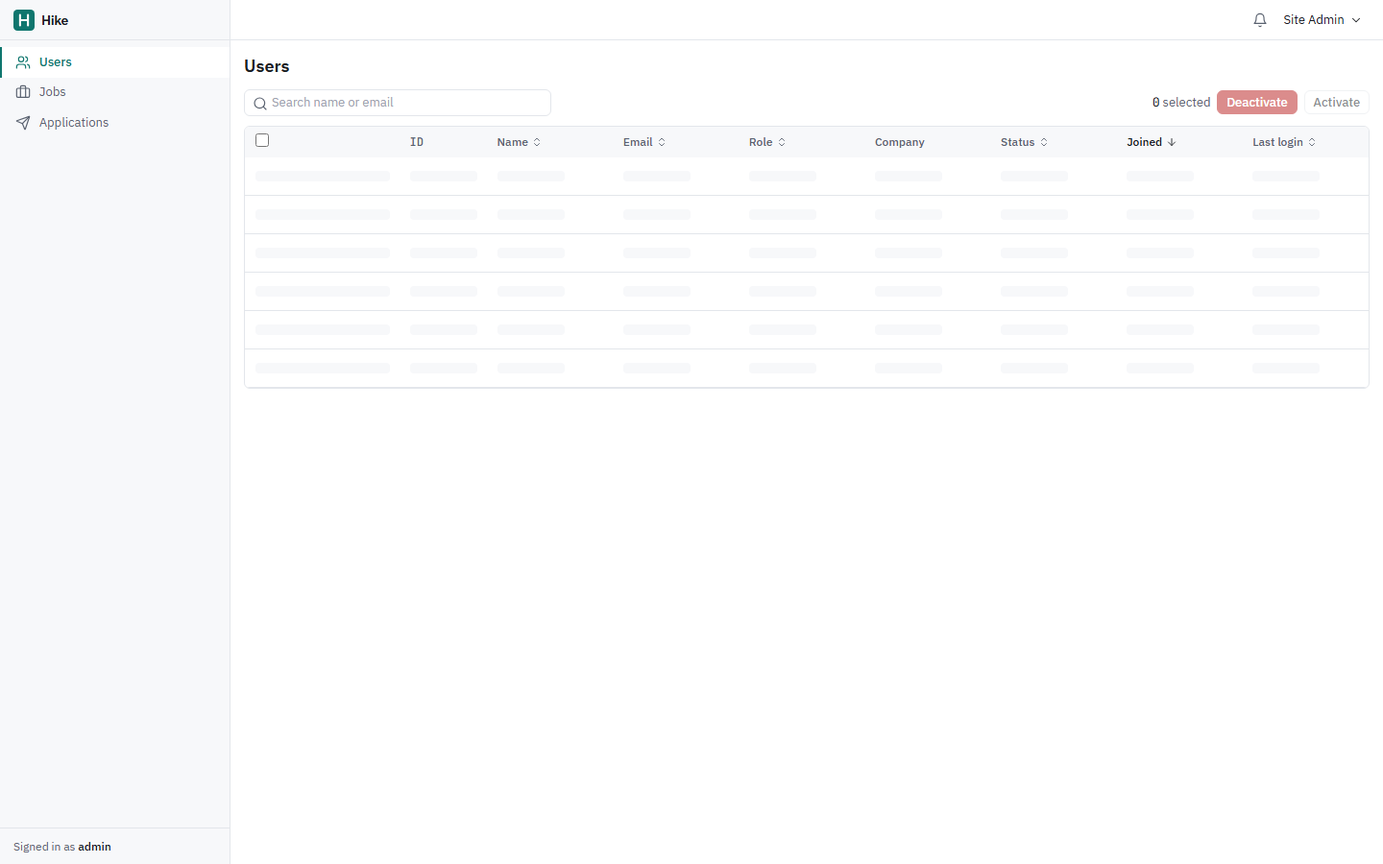
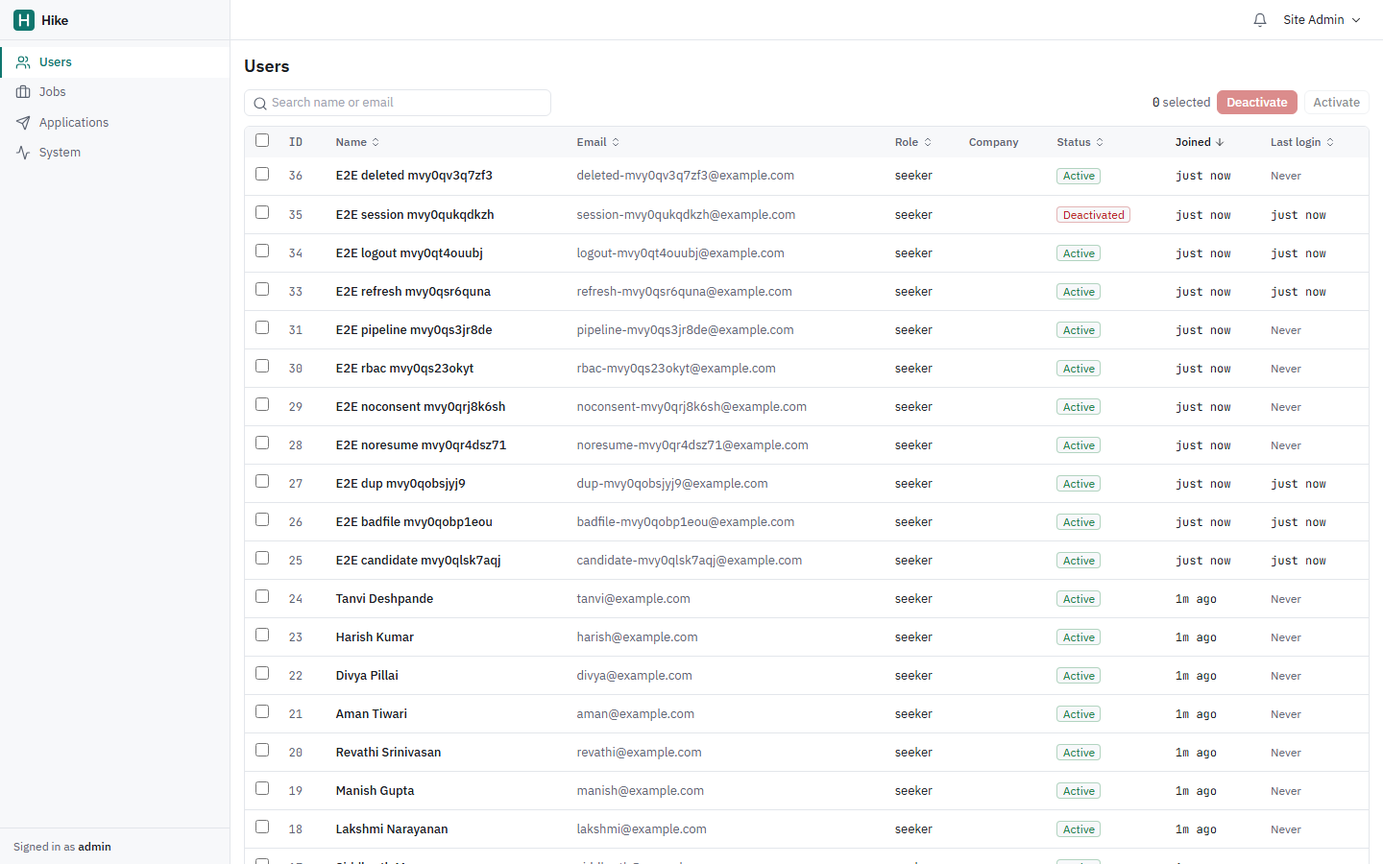
docs: README sections for background jobs, privacy and security, observability and the holdout evaluation; Render free-plan settings, retention on start, refreshed screenshots

diff --git a/backend/app/services/retention.py b/backend/app/services/retention.py
@@ -81,3 +81,12 @@ def run_retention(db: Session, now: datetime | None = None) -> dict:
 
     log.info("retention sweep finished", extra=out)
     return out
+
+
+if __name__ == "__main__":  # pragma: no cover - used by scripts/start.sh without a worker
+    from app.core.observability import configure_logging
+    from app.db.session import SessionLocal
+
+    configure_logging()
+    with SessionLocal() as session:
+        print(run_retention(session))

diff --git a/README.md b/README.md
@@ -2,7 +2,7 @@
 
 A job portal and recruitment platform. Job seekers search and filter jobs, upload a resume that is parsed into skills and experience, and see a match score for every job with the reasons behind it. Recruiters post jobs, see candidates ranked by match score, and move them through a hiring pipeline on a drag-and-drop board. Admins manage users and jobs.
 
-Built with FastAPI, PostgreSQL (full-text search + pgvector), Redis, sentence-transformers / ONNX Runtime, scikit-learn, React 18 and TypeScript.
+Built with FastAPI, PostgreSQL (full-text search + pgvector), Redis, Celery, sentence-transformers / ONNX Runtime, scikit-learn, React 18 and TypeScript. Resumes are uploaded only with consent, screened for malware, parsed in a sandboxed process, encrypted at rest and deletable at any time. The service exports Prometheus metrics and structured logs.
 
 ![Seeker dashboard](docs/screenshots/seeker-dashboard.png)
 
@@ -17,6 +17,9 @@ Built with FastAPI, PostgreSQL (full-text search + pgvector), Redis, sentence-tr
 - [Architecture](#architecture)
 - [Matching algorithm](#matching-algorithm)
 - [Search ranking](#search-ranking)
+- [Background jobs](#background-jobs)
+- [Resume privacy and security](#resume-privacy-and-security)
+- [Observability](#observability)
 - [Evaluation](#evaluation)
 - [Run locally](#run-locally)
 - [Demo accounts](#demo-accounts)
@@ -28,23 +31,27 @@ Built with FastAPI, PostgreSQL (full-text search + pgvector), Redis, sentence-tr
 
 **Job seekers**
 - Search with PostgreSQL full-text search (title, company, skills, description), title/skill autocomplete from an in-memory Trie, filters (location, role, experience, remote) and sorting (relevance, newest, salary, match %). 20 results per page; filters live in the URL.
-- Resume upload (PDF or DOCX, max 5 MB) with extension, MIME and magic-byte checks. Text extraction with pdfplumber / python-docx; skills, years of experience, education, email and phone are parsed. The seeker reviews and edits the parsed skills before saving.
+- Resume upload (PDF or DOCX, max 5 MB) after an explicit consent checkbox. Extension, MIME and magic-byte checks and a malware screen run at upload; text extraction (pdfplumber / python-docx) runs in a background task inside a resource-limited subprocess. Skills, years of experience, education, email and phone are parsed, and the seeker reviews and corrects them before saving.
+- Delete any resume, or the whole account, permanently (files, extracted text, embeddings, cached scores).
 - Match score (0-100) on every job, with a text breakdown: skills matched (e.g. 7/9) plus the missing skills, experience fit and location fit.
 - Apply with an optional note; track status and a timeline of every change; save jobs; in-app notifications.
 
 **Recruiters**
 - Post, edit, close and reopen jobs (markdown descriptions).
 - Kanban pipeline per job: Applied / Shortlisted / Interview / Offer / Rejected, built with dnd-kit. Usable with keyboard (Space to pick up, arrows to move) and through each card's menu. Invalid moves (e.g. Applied to Offer) are blocked on the client and the server.
-- Ranked list of candidates by match score with a skill-gap column; resume download; "Applications this week" line chart.
+- Ranked list of candidates by match score with a skill-gap column; resumes open through short-lived signed links; "Applications this week" line chart. The score is decision support: nothing is rejected automatically.
 
 **Admins**
 - Users, jobs and applications tables with search, column sorting, pagination, checkbox bulk actions (deactivate/activate users, close jobs) and a confirmation dialog.
+- System page: Postgres/Redis/worker/ClamAV health, queue depth, background task counts, recent failures, security and retention settings, and a "run retention now" button.
 
 **Platform**
 - JWT access tokens (15 min, in memory only) and rotating refresh tokens (7 days, httpOnly cookie, stored hashed; reuse of a rotated token revokes the whole token family).
 - Role guards return 401 for unknown callers and 403 for authenticated users without permission.
 - Login rate limit in Redis: 5 failed attempts per email + IP per 15 minutes.
 - Search results cached in Redis for 60 s; one version counter invalidates every cached search when any job changes.
+- Celery worker for resume parsing, embeddings, bulk re-scoring, email delivery and the retention sweep, with retries and a status row per task.
+- JSON logs with request IDs, Prometheus `/metrics`, optional Sentry, alert rules and a Grafana dashboard.
 
 ## Screenshots
 
@@ -74,13 +81,21 @@ flowchart LR
 
     subgraph API["FastAPI (Python 3.11)"]
         Routers["Routers: auth, jobs, resumes,<br/>applications, recruiter, admin, stats"]
-        Services["Services: search, ranking, Trie,<br/>parser, matching, pipeline"]
+        Services["Services: search, ranking, Trie,<br/>matching, pipeline, privacy"]
         ML["ML: MiniLM embeddings (ONNX),<br/>TF-IDF, LogReg classifier, eval"]
+        Obs["Request IDs, JSON logs,<br/>/metrics"]
+    end
+
+    subgraph Worker["Celery worker + beat"]
+        Tasks["parse resume, embed, re-score,<br/>email, retention sweep"]
+        Sandbox["Sandboxed parser<br/>subprocess, rlimits"]
     end
 
     PG[("PostgreSQL 16<br/>tsvector + GIN, pgvector")]
-    Redis[("Redis 7<br/>rate limit, search cache")]
-    Store[("File storage<br/>local disk or S3")]
+    Redis[("Redis 7<br/>broker, rate limit, cache")]
+    Store[("Encrypted file storage<br/>local disk or S3")]
+    ClamAV[["ClamAV (optional)"]]
+    Prom[["Prometheus + Grafana<br/>(optional)"]]
 
     SPA --> Static
     SPA --> Proxy --> Routers
@@ -88,11 +103,16 @@ flowchart LR
     Services --> PG
     Services --> Redis
     Services --> Store
+    Services -. scan .-> ClamAV
+    Redis --> Tasks --> Sandbox
+    Tasks --> PG
+    Tasks --> Store
+    Prom -. scrape .-> Obs
 ```
 
 The SPA calls the API on the same origin (`/api/...`): the Vite dev server, nginx in Docker and a Render rewrite rule all proxy it. That keeps the refresh-token cookie first-party (`SameSite=Lax`, `HttpOnly`, `Secure` in production) without third-party cookie problems.
 
-**Database schema (main tables):** `users`, `refresh_tokens`, `seeker_profiles`, `recruiter_profiles`, `companies`, `jobs` (with `search_vector tsvector` maintained by a trigger and `embedding vector(384)`), `saved_jobs`, `resumes` (parsed JSON, confirmed skills, embedding, predicted category; partial unique index for one current resume per seeker), `match_scores` (cached breakdowns keyed by resume and job signatures), `applications` (unique on job + seeker), `application_status_history`, `notifications`, `eval_runs`. Migrations are in `backend/alembic/versions`.
+**Database schema (main tables):** `users`, `refresh_tokens`, `seeker_profiles`, `recruiter_profiles`, `companies`, `jobs` (with `search_vector tsvector` maintained by a trigger and `embedding vector(384)`), `saved_jobs`, `resumes` (processing status, consent time and version, file hash, scan result, parsed JSON, confirmed skills, embedding, predicted category; partial unique index for one current resume per seeker), `match_scores` (cached breakdowns keyed by resume and job signatures), `applications` (unique on job + seeker; `resume_id` is set to NULL if the seeker deletes that resume), `application_status_history`, `notifications` (with `emailed_at`), `background_tasks`, `eval_runs`. Migrations are in `backend/alembic/versions`.
 
 ## Matching algorithm
 
@@ -140,31 +160,100 @@ When a signal is unavailable (no search text, no resume), its weight is dropped 
 
 **Autocomplete Trie** (`services/trie.py`). Each job title and skill is inserted under every word start, so "back" finds "Senior Backend Engineer". Terminal nodes store how many open jobs use the term. A query walks the prefix in O(P), collects the M terms below it, and picks the top k by frequency in O(M log k). Each API worker keeps its own Trie and rebuilds it lazily when the shared jobs version counter in Redis changes.
 
+## Background jobs
+
+`backend/app/worker.py`, `backend/app/tasks/`
+
+Slow or failure-prone work runs in a Celery worker, with Redis as the broker:
+
+| Task | Triggered by |
+|---|---|
+| `process_resume`: sandboxed text extraction + field parsing | every upload (the API answers `202 Accepted`; the UI polls until the resume is `ready` or `failed`) |
+| `derive_resume`: MiniLM embedding + role classification | the seeker confirming a resume |
+| `embed_job`, `score_job_candidates` (bulk matching) | a job being created or edited |
+| `deliver_email` | every notification (written to the `hike.email` log; no mail provider is configured) |
+| `retention_sweep` | daily at 03:00 UTC (Celery beat), or an admin button |
+
+Each task gets a row in `background_tasks` (queued → running → retrying → succeeded / rejected / failed, attempts, error, timestamps). `GET /api/tasks/{id}` shows its status to its owner. Any exception is retried 3 times with exponential backoff and jitter. A `PermanentError` ends the task at once as `rejected` instead: an unreadable file is the user's input problem, not an outage. When retries run out, the task is marked `failed`, logged at ERROR with `alert=true`, sent to Sentry if configured, and reported to admins in the app (at most once per task type per hour). The resume being processed is also flagged so the seeker sees an error. If Redis is unreachable when a task is queued, the API runs it inline instead of losing it.
+
+With `TASKS_EAGER=true` there is no worker at all: tasks run inline in the API process. Tests use this mode, and so does the Render free plan, which has no background workers.
+
+## Resume privacy and security
+
+| Control | Where |
+|---|---|
+| **Consent.** Upload requires an explicit checkbox; the time and policy version are stored on the resume. The API refuses uploads without `consent=true`. | `services/resumes.py`, `ResumePage.tsx` |
+| **Malware screening** before anything is stored. Built-in checks always run: PDF JavaScript, launch actions, embedded files (including `#xx`-escaped names and names inside compressed object streams), DOCX macros, ActiveX, embedded OLE objects, remote templates, zip bombs, and the EICAR test signature. With `MALWARE_SCAN=clamav` the file is also streamed to a ClamAV daemon; if ClamAV is unreachable the upload fails with 503 rather than skipping the scan. | `services/file_scan.py` |
+| **Isolated parsing.** PDF/DOCX parsing runs in a separate `python -I` process with no secrets in its environment, a wall-clock timeout, and (on Linux) address-space, CPU and core-dump limits. A crafted file that hangs or exhausts memory is reported as unreadable instead of taking the worker down. | `services/doc_extract.py` |
+| **Encryption at rest.** Files are encrypted with Fernet (AES-128-CBC + HMAC-SHA256) before they reach local disk or S3. | `services/storage.py` |
+| **Signed, expiring downloads.** The app requests a link (`POST /api/resumes/{id}/link`) that names the resume, the viewer and an expiry time, signed with HMAC-SHA256 (5 minutes by default). Access is re-checked when the link is used, so a deactivated recruiter's links stop working. Responses are `no-store` and `nosniff`. | `core/signing.py`, `api/resumes.py` |
+| **Deletion.** `DELETE /api/resumes/{id}` and `POST /api/account/delete` (password required) remove the files, extracted text, embeddings and cached scores. Applications made with a deleted resume stay for the recruiter but no longer link to any resume data. | `services/resumes.py` |
+| **Retention.** Unsaved or failed uploads are removed after 7 days and superseded resumes after 365 days; inactive seeker accounts can be removed after N days (off by default). | `services/retention.py` |
+| **Decision support only.** Recruiters see every candidate with the score breakdown; nothing is filtered out or rejected automatically. | `RankedTable.tsx`, `KanbanBoard.tsx` |
+
+Limits: the built-in checks are heuristics, not an antivirus engine; turn on ClamAV for real signature scanning. On Windows only the parser's timeout applies (resource limits are POSIX).
+
+## Observability
+
+- **Logs:** one JSON object per line (`LOG_FORMAT=json`) with `request_id`, plus `method`, `route`, `status` and `duration_ms` on every access line. Worker log lines carry the task ID.
+- **Request IDs:** every response has `X-Request-ID` (the caller's, if it looks safe, else a new one). Unhandled errors return `{"detail": "Internal server error", "request_id": ...}` with no internals, and the stack trace is logged under the same ID.
+- **Metrics:** `GET /metrics` (Prometheus; set `METRICS_TOKEN` to require a bearer token):
+  - `hike_http_requests_total{method,route,status}` and `hike_http_request_duration_seconds` (by route template, so cardinality stays bounded)
+  - `hike_dependency_up{name}` and `hike_dependency_latency_ms{name}` for Postgres and Redis
+  - `hike_worker_up` (from the worker's heartbeat), `hike_queue_depth`, and `hike_background_tasks_last_hour{status}`
+- **Health:** `/health` returns 503 if Postgres or Redis is down, and reports the worker, queue depth and latencies.
+- **Alerts and dashboard:** `docker compose --profile monitoring up` adds Prometheus (http://localhost:9090) with seven alert rules (`ops/prometheus/alerts.yml`): API down, dependency down, worker down, failed background tasks, queue backlog, 5xx rate above 5%, p95 latency above 1 s. It also adds Grafana (http://localhost:3000) with a provisioned dashboard.
+- **Errors:** set `SENTRY_DSN` to send exceptions and failed tasks to Sentry (no personal data is sent).
+
 ## Evaluation
 
-Run it yourself (it also runs during seeding, and the latest result is stored in `eval_runs`, which feeds the landing-page stats):
+Full report: **[docs/evaluation.md](docs/evaluation.md)**. It is generated from the result files, and a test fails if it goes stale.
+
+There are two evaluations:
+
+1. **Holdout set** (`backend/eval/holdout`): 24 resumes and 34 jobs written by hand, separate from the seed data and including 6 non-software distractor jobs.
+   - Every resume is rendered in one of four document layouts and read by the production parser.
+   - Labels are graded: 2 = strong fit, 1 = partial fit.
+2. **Synthetic seed set**: 20 resumes × 50 jobs from the seed generator, with labels from a rule. The system was developed against this set.
 
 ```powershell
 cd backend
-.\.venv\Scripts\python -m app.ml.eval          # or: docker compose exec backend python -m app.ml.eval
+.\.venv\Scripts\python -m app.ml.eval                   # synthetic set (also runs during seeding)
+.\.venv\Scripts\python -m app.ml.eval_holdout --report  # holdout set + docs/evaluation.md
 ```
 
-**Data.** 20 seed resumes, parsed from their PDFs with the real parser, against 50 seed jobs. That gives 1,000 pairs, 119 of them labelled relevant. The labels come from a rule written in `seed/build_seed_data.py` and saved in `seed/data/eval_pairs.json`: a job is relevant if it is in the candidate's role family and the candidate's experience is at most 1 year under the job's minimum or 2 years over its maximum. All jobs and resumes are synthetic and written for this project.
+**Holdout results** (mean over resumes, with 95% bootstrap intervals):
 
-**Matching** (numbers produced by `python -m app.ml.eval`, identical on Windows and in the Linux container):
-
-| Method | Precision@5 | Recall@5 | MRR | Accuracy* |
+| Method | P@5 | R@5 | MRR | NDCG@5 |
 |---|---|---|---|---|
-| TF-IDF cosine (baseline) | **0.760** | **0.669** | 1.000 | **0.933** |
-| MiniLM embeddings cosine only | 0.690 | 0.593 | 0.975 | 0.919 |
-| Hike match score (full formula) | 0.740 | 0.651 | 1.000 | 0.929 |
-
-\* Accuracy of the decision "the top-5 jobs per resume are relevant, the rest are not" over all 1,000 pairs.
+| TF-IDF cosine (baseline) | 0.517 (0.44–0.60) | 0.926 | 1.000 | 0.961 (0.93–0.98) |
+| MiniLM embeddings only | 0.467 (0.41–0.53) | 0.855 | 1.000 | 0.927 (0.90–0.96) |
+| Hike hybrid score | 0.525 (0.45–0.60) | 0.938 | 1.000 | 0.966 (0.94–0.99) |
 
 What this shows, honestly:
-- On this dataset the TF-IDF baseline beats the embedding model. The seed job descriptions are keyword-dense and share boilerplate within each role family, which favours exact term overlap. On free-form text (different words for the same skill) the semantic signal should matter more, but this dataset does not prove that.
-- The full Hike score improves on embeddings alone (P@5 0.69 → 0.74) because of the skill-overlap and experience signals. The experience rule is part of how the labels were defined, which flatters the full score somewhat.
-- 20 resumes is a small sample. Treat these numbers as a reproducible sanity check, not a benchmark.
+- **Hike vs MiniLM alone:** the hybrid score is clearly better. NDCG@5 is +0.039 (paired 95% CI +0.015 to +0.065).
+- **Hike vs TF-IDF:** there is no clear difference (+0.006, CI −0.014 to +0.027). On the synthetic set TF-IDF is ahead.
+- **P@5 ceiling:** the best possible P@5 here is 0.575, because most resumes have fewer than five acceptable jobs. MRR is 1.0 for every method, so this set is too easy at rank 1.
+- **Two-column PDFs are the weak spot:**
+  - The parser never finds the name.
+  - It misses total experience by about a year.
+  - The same resume in four layouts moves its scores by 3.3 points out of 100 on average.
+  - Seekers confirm or correct the parsed years and skills before matching, which mitigates this.
+- **Caveats:**
+  - The data is fictional and small.
+  - The labels were drafted with AI assistance under a written rubric and have not been reviewed by an independent labeller.
+  - The rubric partly rewards skill overlap, which flatters Hike.
+  - The report lists these limits and what a real-world evaluation would need (consented anonymised resumes, two labellers, Cohen's kappa). The harness can export and import labels for that review.
+
+**Synthetic set:**
+
+| Method | Precision@5 | Recall@5 | MRR | NDCG@5 | Accuracy* |
+|---|---|---|---|---|---|
+| TF-IDF cosine (baseline) | **0.760** | **0.669** | 1.000 | **0.838** | **0.933** |
+| MiniLM embeddings cosine only | 0.690 | 0.593 | 0.975 | 0.790 | 0.919 |
+| Hike match score (full formula) | 0.740 | 0.651 | 1.000 | 0.834 | 0.929 |
+
+\* Accuracy of the decision "the top-5 jobs per resume are relevant, the rest are not" over all 1,000 pairs (119 relevant). The synthetic jobs and resumes come from the same templates and share vocabulary, which favours exact term overlap.
 
 **Role classifier**
 
@@ -197,11 +286,20 @@ cd hike
 docker compose up --build
 ```
 
-The first build takes a few minutes (it downloads the ONNX model). On first start the backend runs migrations, seeds the demo data and runs the evaluation (about 30 s), then serves:
+The first build takes a few minutes (it downloads the ONNX model). On first start the backend runs migrations, seeds the demo data and runs the evaluation (about 30 s). The `worker` container then starts processing background tasks, and the stack serves:
 
 - App: http://localhost:8080
 - API docs: http://localhost:8080/api/docs
-- API directly: http://localhost:8000
+- API directly: http://localhost:8000 (`/health`, `/metrics`)
+
+Optional profiles:
+
+```powershell
+# ClamAV malware scanning (first start downloads signatures: ~2 minutes, ~1.2 GB RAM)
+$env:MALWARE_SCAN = "clamav"; docker compose --profile security up --build
+# Prometheus (:9090) with alert rules + Grafana (:3000) with a dashboard
+docker compose --profile monitoring up --build
+```
 
 To start over with fresh data: `docker compose down -v`, then `docker compose up --build`.
 
@@ -245,11 +343,14 @@ The other 15 seeded seekers use `<firstname>@example.com` with the same password
 
 | Suite | Command | What it covers |
 |---|---|---|
-| Backend (PyTest) | `cd backend; .\.venv\Scripts\python -m pytest --cov=app` | 137 tests: auth (rotation, reuse detection, rate limit, 401 vs 403), search/filters/sort/pagination/cache invalidation, Trie, ranking, resume parsing on 3 fixture resumes (2 PDF, 1 DOCX), skills taxonomy, embeddings (ONNX vs reference), matching and its cache, classifier, eval harness, applications pipeline and permissions, admin, seed. Needs Postgres and Redis (`docker compose up -d postgres redis`). |
-| Frontend (Vitest + RTL) | `cd frontend; npm test` | 26 tests: MatchPill thresholds, filter chips, login/register validation, kanban moves and allowed transitions, formatting. |
-| E2E (Playwright) | `cd e2e; npm ci; npx playwright install chromium; npx playwright test` | Against the running stack on :8080: a seeker logs in, searches, opens a job, checks the match breakdown and applies; the recruiter moves them to Shortlisted; the seeker sees the new status and timeline. |
+| Backend (PyTest) | `cd backend; .\.venv\Scripts\python -m pytest --cov=app` | 192 tests: auth (rotation, reuse detection, rate limit, 401 vs 403), search/filters/sort/pagination/cache invalidation, Trie, ranking, resume parsing, skills taxonomy, embeddings (ONNX vs reference), matching and its cache, classifier, both eval harnesses (including a check that the committed numbers and report reproduce), applications pipeline, admin, seed. Background tasks: retries, permanent failures, alerts, queue-down fallback, email delivery, bulk re-scoring. Security: malware heuristics, a fake clamd server (clean, infected, unreachable = 503), sandboxed parsing (timeout, memory limit, no secrets in the child), encryption at rest, signed URL tampering, expiry and revocation. Privacy: resume and account deletion, retention rules. Observability: request IDs, JSON 500s, metrics, health. Needs Postgres and Redis (`docker compose up -d postgres redis`). One test (parser memory limit) runs on Linux only. |
+| Frontend (Vitest + RTL) | `cd frontend; npm test` | 30 tests: MatchPill thresholds, filter chips, login/register validation, kanban moves and allowed transitions, a candidate whose resume was deleted, resume upload consent and the processing/failed states, formatting. |
+| E2E (Playwright) | `cd e2e; npm ci; npx playwright install chromium; npx playwright test` | 15 tests against the running stack on :8080, with the real worker. Covered: the hiring flow (search, match breakdown, apply, recruiter shortlists, seeker sees the status); invalid login; role-based redirects; 401/403 across the API and a forged token; refresh-token reuse revoking the session; sign-out revoking the refresh token; deactivation ending a live session; upload failures (wrong type, oversize, fake PDF, EICAR, unreadable PDF processed by the worker); upload without consent; duplicate applications; invalid pipeline moves and cross-recruiter access; signed file links; resume deletion; account deletion; a recruiter's view after a resume is deleted. |
 
-Backend coverage is 96% overall. Every module in `app/services` and `app/ml` is above 80%; the lowest are `services/cache.py` (68%, Redis-down fallbacks) and `services/storage.py` (76%, S3 backend).
+Backend coverage is 95% overall. Every module in `app/services`, `app/tasks` and `app/ml` is above 80% except three:
+- `services/cache.py` (68%): Redis-down fallbacks.
+- `services/doc_extract.py` (69%): its main path runs in the sandbox subprocess, which coverage does not measure, though the tests exercise it.
+- `services/storage.py` (88%) covers everything except the S3 backend.
 
 Lint: `ruff check . ; black --check .` (backend) and `npm run lint` (ESLint + Prettier, frontend).
 
@@ -259,7 +360,15 @@ Lint: `ruff check . ; black --check .` (backend) and `npm run lint` (ESLint + Pr
 - `.github/workflows/ci.yml` runs on every pull request and push to `main`: ruff, black, PyTest with coverage (Postgres + pgvector and Redis service containers), then ESLint, Prettier, Vitest and the production build.
 - `.github/workflows/deploy.yml` runs on push to `main`: it brings up the whole stack with `docker compose`, runs the Playwright E2E test against it, and only if that passes calls the Render deploy hooks.
 
-**Render** (`render.yaml` blueprint): `hike-api` (Docker web service, health check `/health`), `hike-web` (static site with a `/api/*` rewrite to the API and an SPA fallback), `hike-db` (Postgres 16, pgvector is created by the first migration) and `hike-redis` (Key Value). The API seeds itself on first start.
+**Render** (`render.yaml` blueprint):
+- `hike-api`: Docker web service, health check `/health`.
+- `hike-web`: static site with a `/api/*` rewrite to the API and an SPA fallback.
+- `hike-db`: Postgres 16; the first migration creates pgvector.
+- `hike-redis`: Key Value.
+
+The API seeds itself on first start. Render generates `JWT_SECRET`, `FILE_ENCRYPTION_KEY` (keep it: changing it makes stored resumes unreadable) and `METRICS_TOKEN`.
+
+The free plan has no background workers, so the blueprint sets `TASKS_EAGER=true`: tasks run inline, and the retention policy runs on every start. On a paid plan, add a worker service that runs `celery -A app.worker worker --beat --concurrency=2` with the same environment, and set `TASKS_EAGER=false`. ClamAV needs about 1.2 GB of RAM, so the free deployment uses the built-in heuristic scan only.
 
 One-time setup:
 1. Push this repo to GitHub.
@@ -276,17 +385,21 @@ hike/
 ├── backend/
 │   ├── app/
 │   │   ├── api/        # routers: auth, jobs, resumes, applications, recruiter, admin, profile, stats, health
-│   │   ├── core/       # settings, JWT/bcrypt, role guards, Redis, rate limiter
+│   │   ├── core/       # settings, JWT/bcrypt, role guards, Redis, rate limiter, logging/metrics, URL signing
 │   │   ├── models/     # SQLAlchemy 2.0 models
 │   │   ├── schemas/    # Pydantic v2 schemas
-│   │   ├── services/   # search, ranking, Trie, cache, parser, storage, matching, applications
-│   │   └── ml/         # embeddings, TF-IDF, classifier, skills taxonomy, eval harness
+│   │   ├── services/   # search, ranking, Trie, cache, parser, sandbox, malware scan, storage, matching, retention
+│   │   ├── tasks/      # Celery task definitions and the tracking/retry layer
+│   │   ├── worker.py   # Celery app and beat schedule
+│   │   └── ml/         # embeddings, TF-IDF, classifier, skills taxonomy, eval harnesses, report
 │   ├── alembic/        # migrations (incl. FTS trigger, pgvector)
+│   ├── eval/holdout/   # holdout evaluation data: 34 jobs, 24 resumes in 4 layouts, graded labels
 │   ├── seed/           # seed script, dataset builders, 20 resume PDFs, JSON data
 │   └── tests/          # PyTest suites + fixture resumes
 ├── frontend/           # React + Vite + Tailwind (design tokens in tailwind.config.ts)
 ├── e2e/                # Playwright E2E + screenshot capture
-├── docs/screenshots/
+├── ops/                # Prometheus config + alert rules, Grafana dashboard
+├── docs/               # evaluation report, screenshots
 ├── docker-compose.yml
 ├── render.yaml
 └── .github/workflows/
